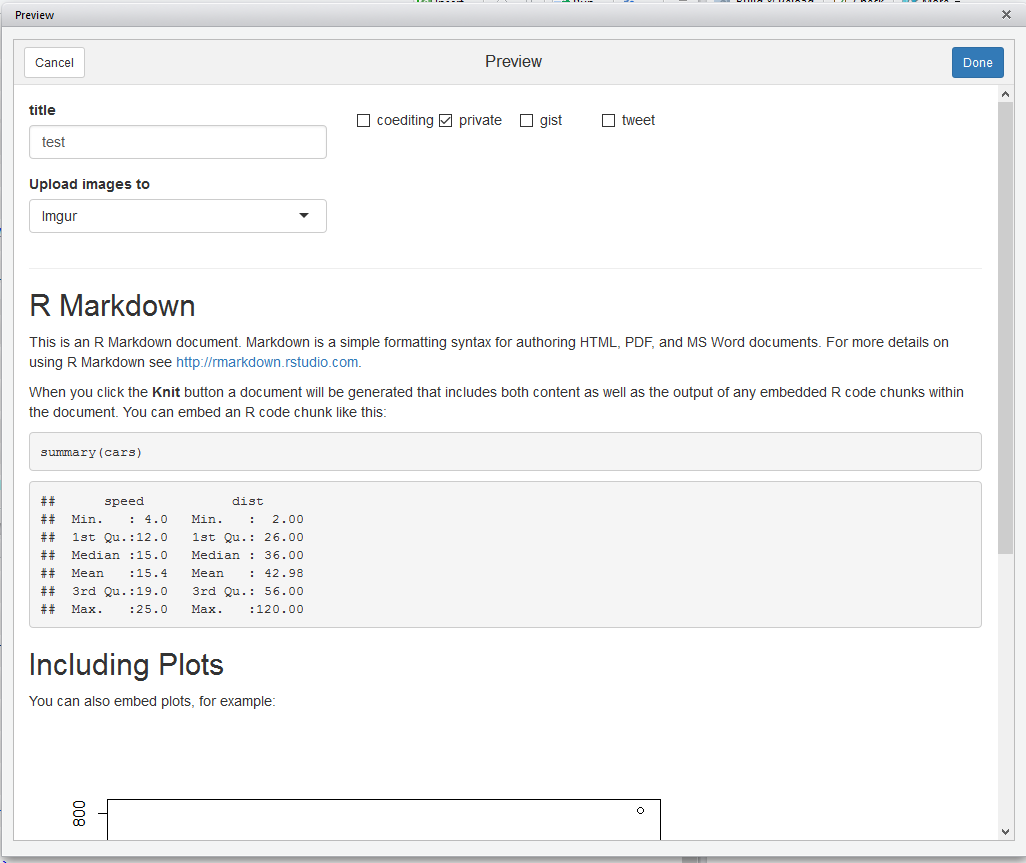
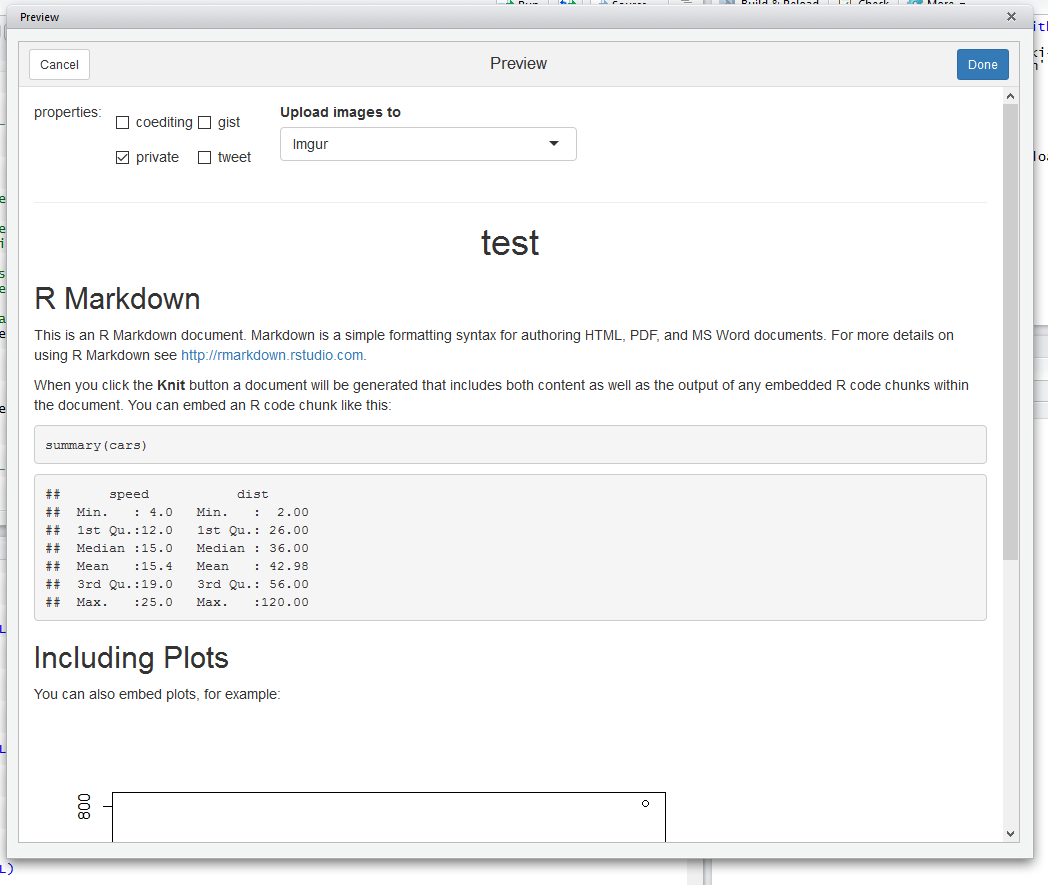
change layout

Changed region(s): [[0.0, 0.0, 1.0, 1.0], [0.5926, 0.1205, 0.655, 0.1506], [0.4678, 0.2711, 0.5302, 0.3013]]

diff --git a/README.md b/README.md
@@ -35,7 +35,6 @@ qiitaddin::qiitaddin_knit("path/to/file.Rmd")
 
 After knitting the document is finished, the preview window appears. Review the document and edit the following items if necessary.
 
-* `title`: The title of this document.
 * `coediting`: A flag whether this item is co-edit mode (only available on Qiita:Team).
 * `private`: A flag whether this item is private (only available on Qiita).
 * `gist`: A flag to post data to Gist (only available if GitHub integration is enabled).
@@ -45,9 +44,8 @@ After knitting the document is finished, the preview window appears. Review the 
 ![](usage2.png)
 
 
-When things are done, click "Done". If you don't set `QIITA_ACCESSTOKEN` environmental variable, you will be asked to provide your Qiita access token as shown bellow.
+When things are done, click "Done". (If you don't set `QIITA_ACCESSTOKEN` environmental variable, you will be asked to provide your Qiita access token)
 
-![](usage3.png)
 
 After that, the document is posted to Qiita and you will jump to the page.
 
